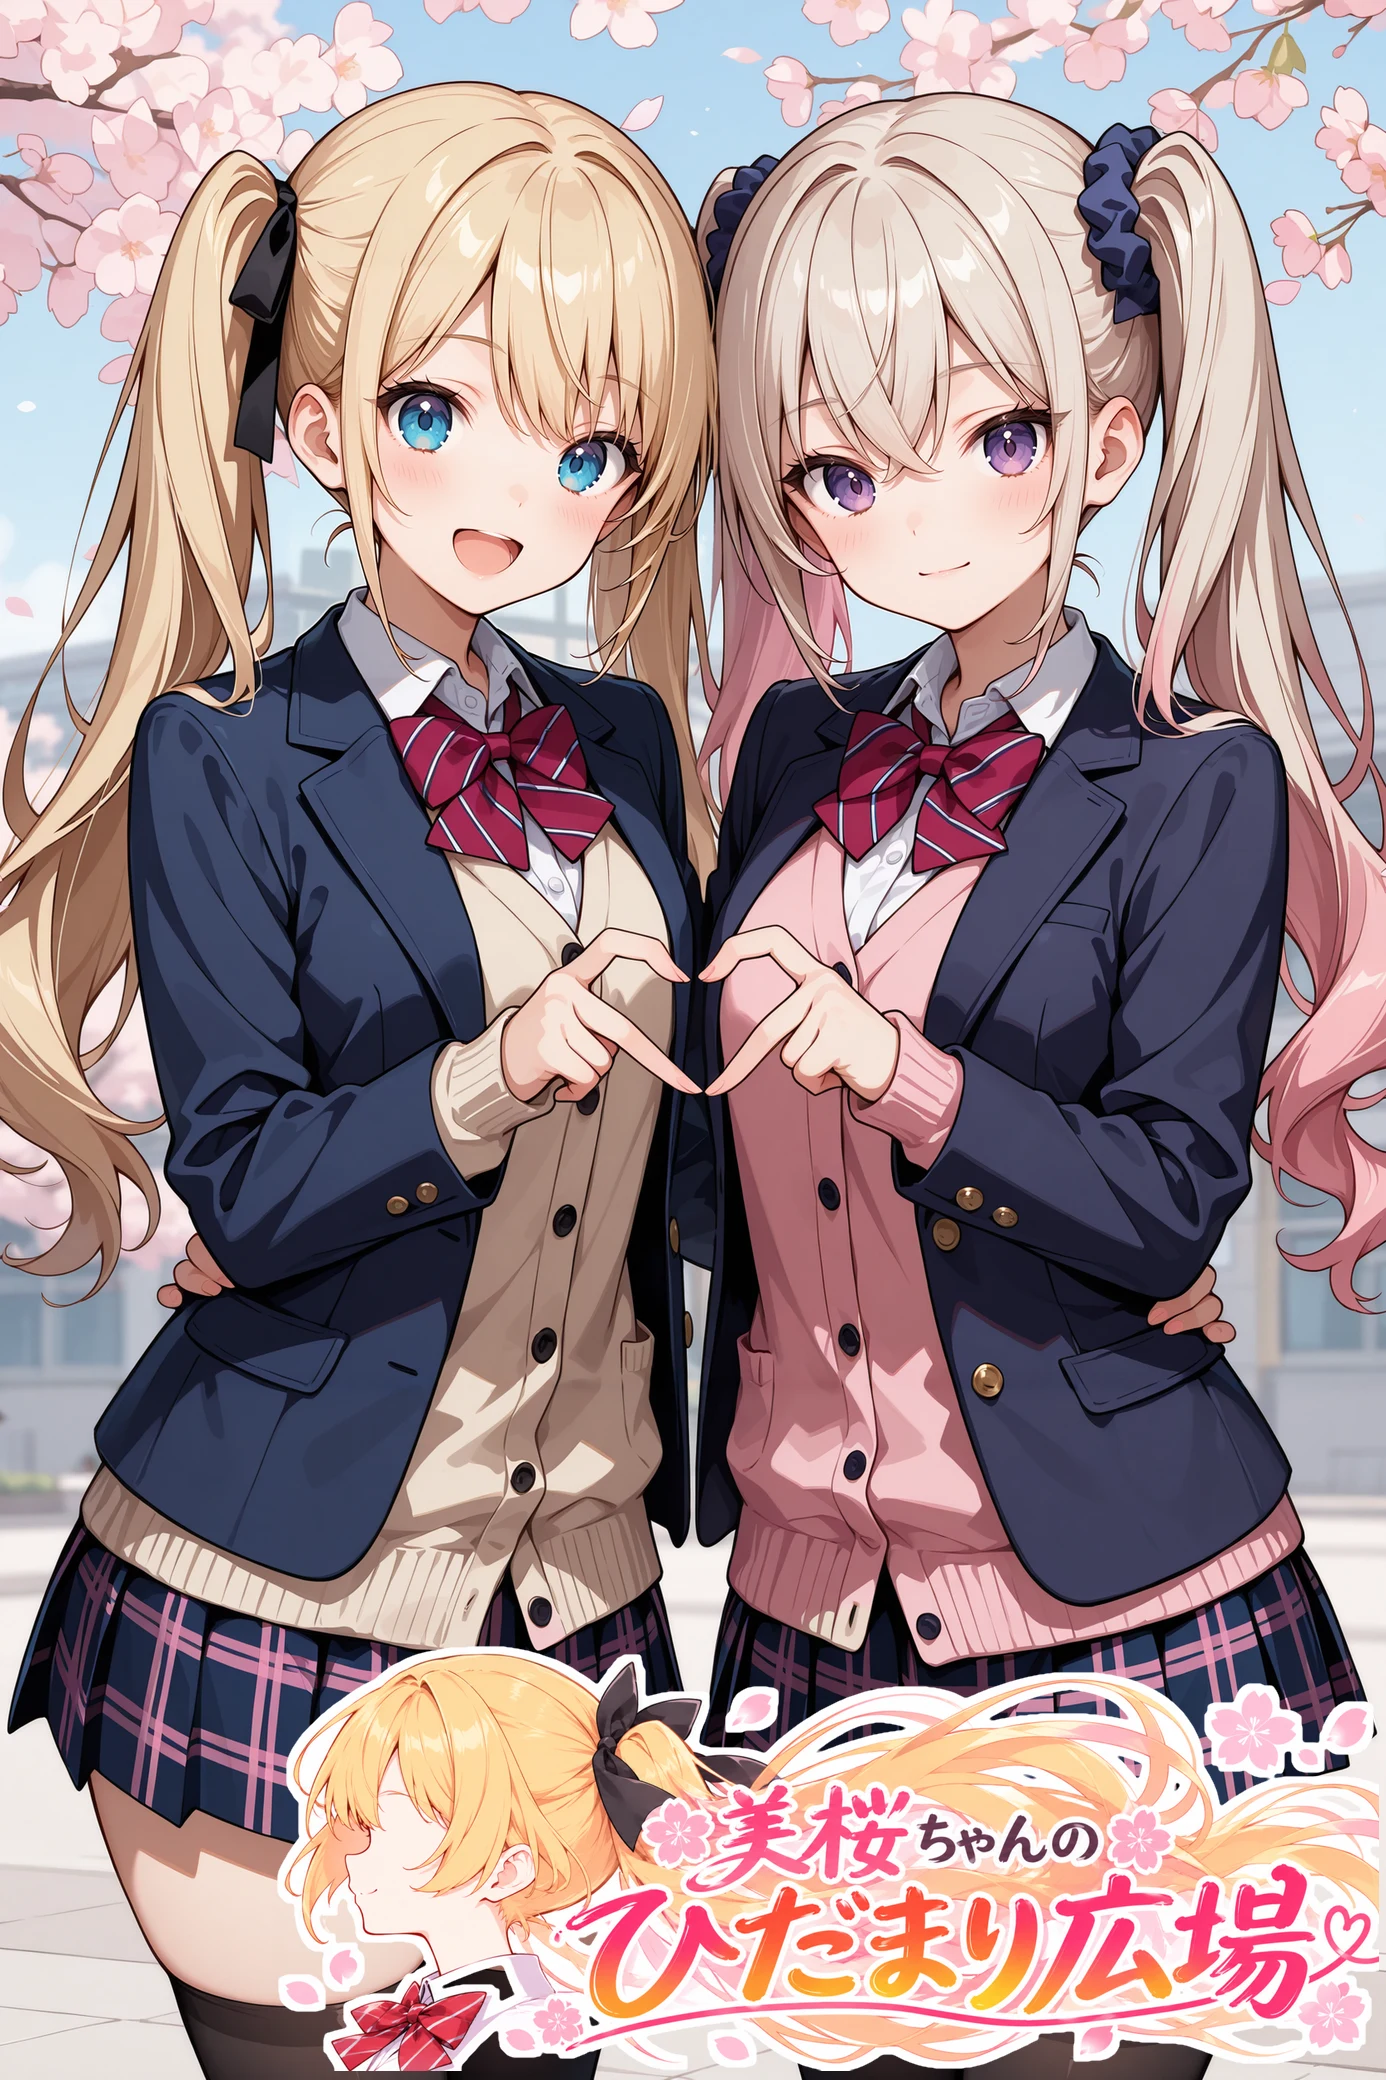
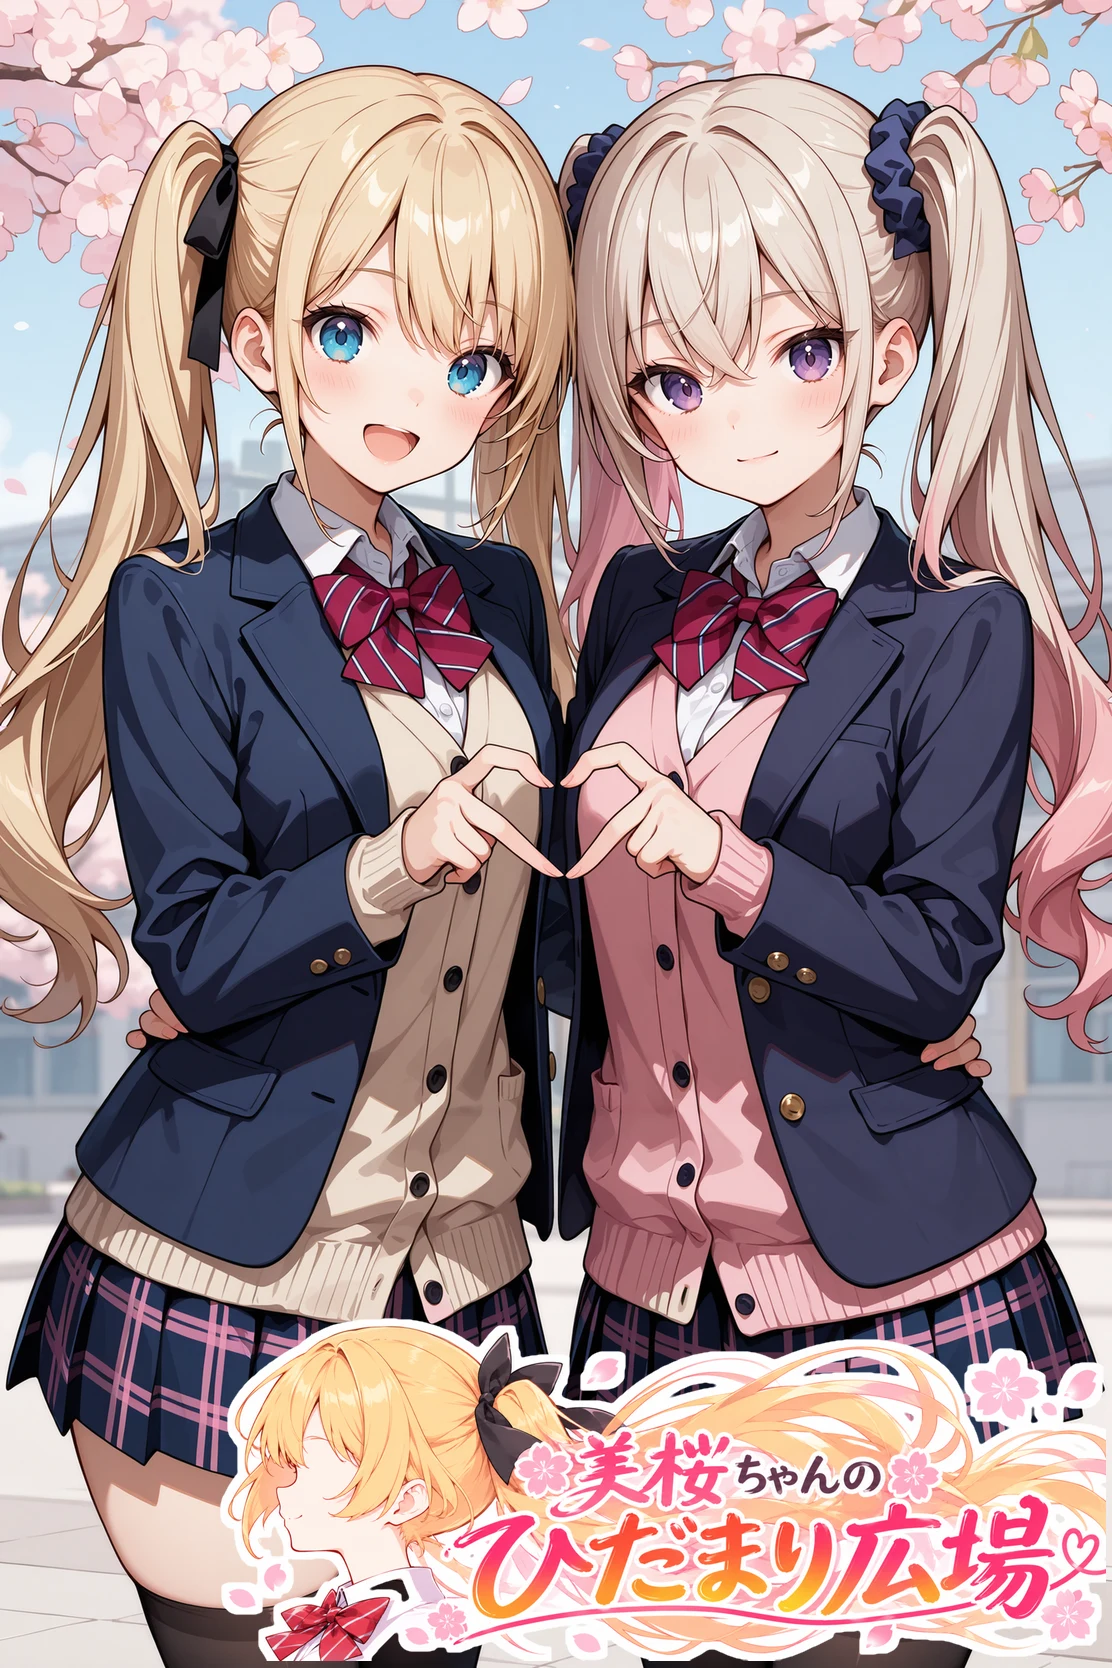
TOP絵を差し替え（シャツの第一ボタンの位置を修正した原画で再合成）

diff --git a/index.html b/index.html
@@ -98,7 +98,7 @@
   <div class="content-wrap">
     <main>
 <section class="top-visual" aria-label="メインビジュアル">
-  <img src="images/top-visual.webp" alt="桜舞う校庭でピースする美桜ちゃんと美優ちゃん" width="1386" height="2080">
+  <img src="images/top-visual.webp" alt="桜舞う校庭でピースする美桜ちゃんと美優ちゃん" width="1112" height="1668">
 </section>
     </main>
     <footer class="site-footer">
